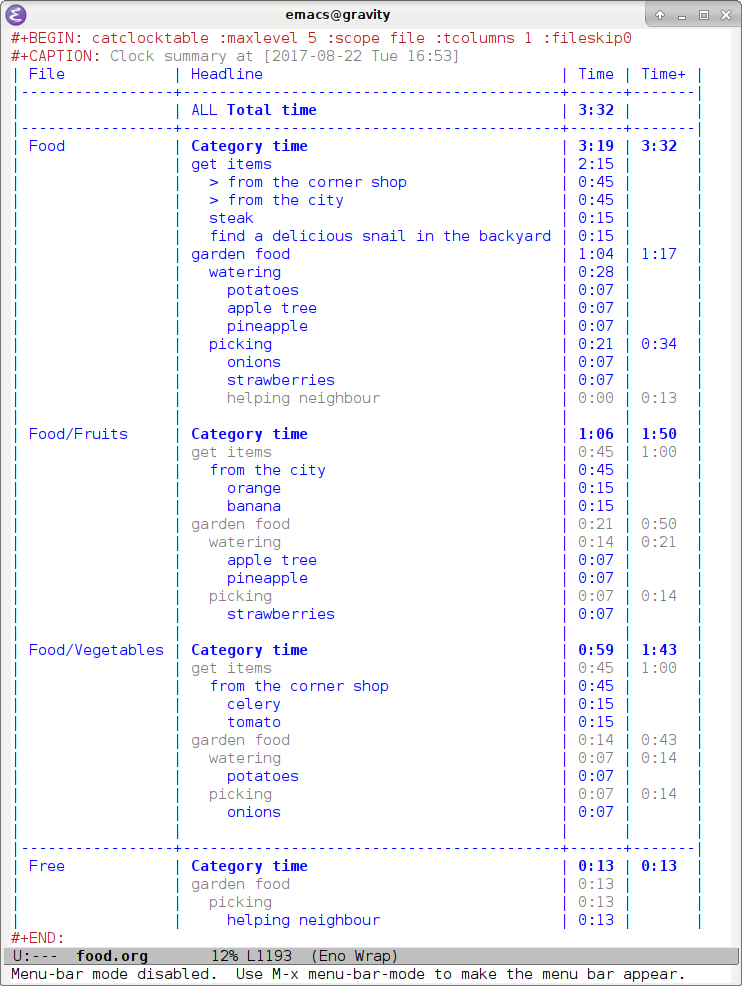
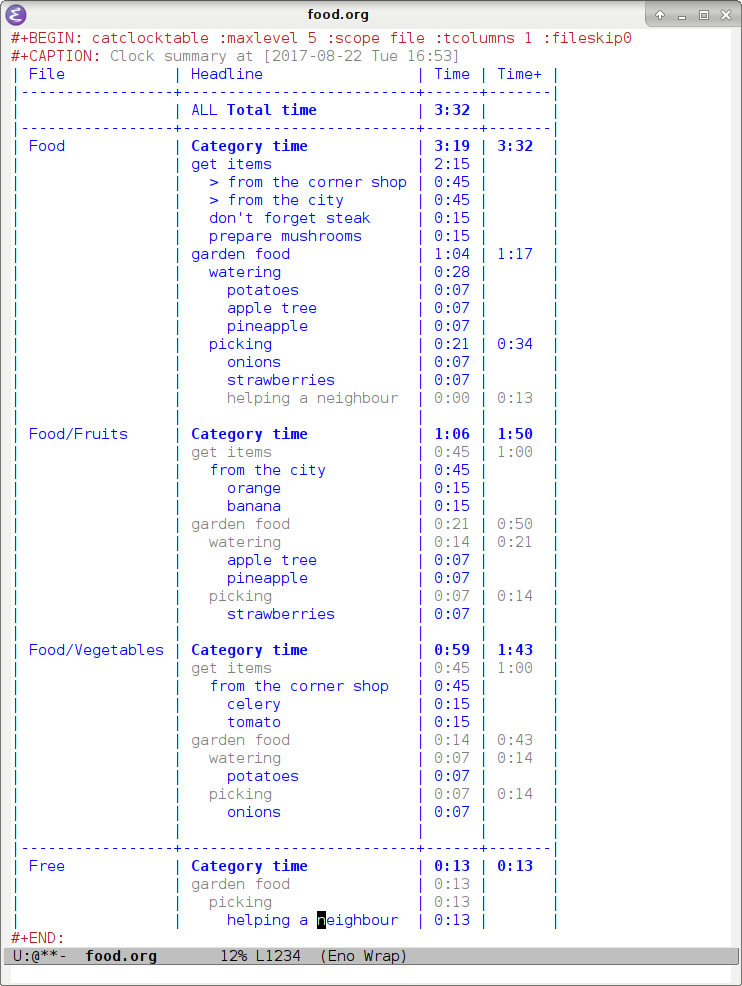
Add better headings in food.org

diff --git a/README.md b/README.md
@@ -231,7 +231,7 @@ form of a table, like so:
 
 <tr>
 <td class="org-left">&#xa0;</td>
-<td class="org-left">&ensp;&ensp;&ensp;&ensp;helping neighbour</td>
+<td class="org-left">&ensp;&ensp;&ensp;&ensp;helping a neighbour</td>
 <td class="org-right">0:13</td>
 </tr>
 </tbody>
@@ -389,7 +389,7 @@ create a category clock table, simply write `catclocktable` instead of
 
 <tr>
 <td class="org-left">&#xa0;</td>
-<td class="org-left">    <em>helping neighbour</em></td>
+<td class="org-left">    <em>helping a neighbour</em></td>
 <td class="org-right"><em>0:00</em></td>
 <td class="org-left"><em>0:13</em></td>
 </tr>
@@ -614,7 +614,7 @@ create a category clock table, simply write `catclocktable` instead of
 
 <tr>
 <td class="org-left">&#xa0;</td>
-<td class="org-left">    helping neighbour</td>
+<td class="org-left">    helping a neighbour</td>
 <td class="org-right">0:13</td>
 <td class="org-left">&#xa0;</td>
 </tr>
